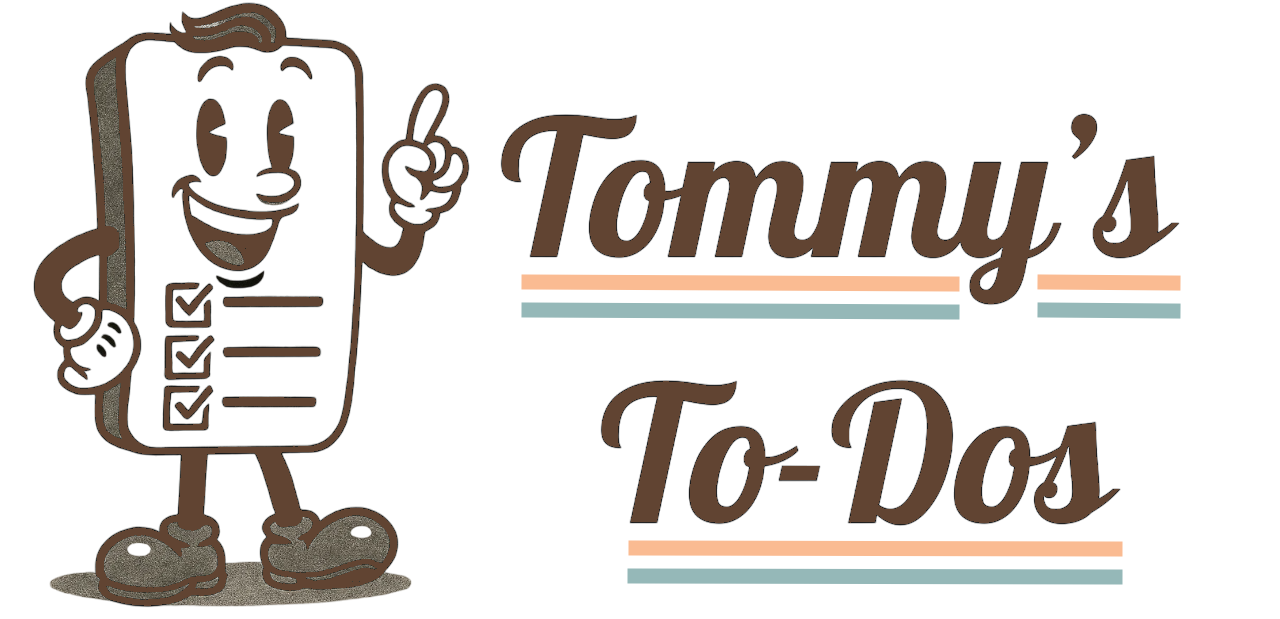
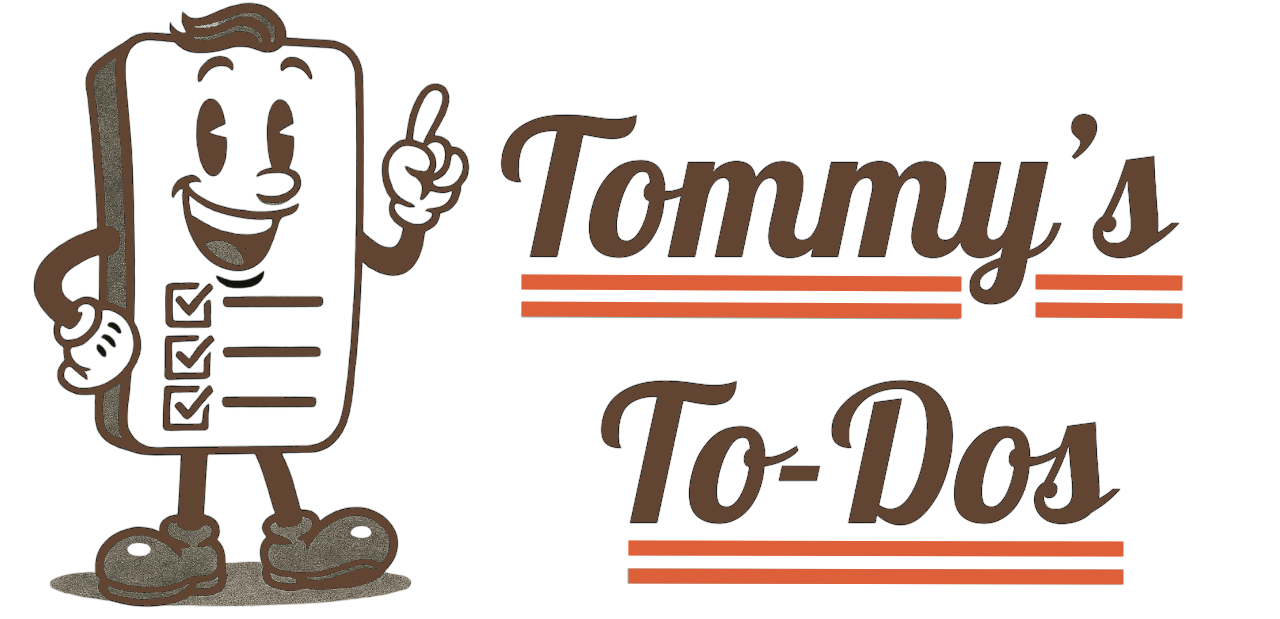
Added the functionality for search bar and also did some re-styling

Changed region(s): [[0.4688, 0.8595, 0.875, 0.9515], [0.4062, 0.4297, 0.75, 0.5218], [0.8125, 0.4297, 0.9375, 0.5218]]

diff --git a/src/routes/+page.svelte b/src/routes/+page.svelte
@@ -5,10 +5,12 @@
 	import type { PageProps } from './$types';
 	import { enhance } from '$app/forms';
 	let { data, form }: PageProps = $props();
+	let term: string = $state('');
 	let showModal = $state(false);
     let showcompleted = $state(false);
 	let showincomplete = $state(false);
 	const toggleModal = () => showModal = !showModal;
+
 	const toggleCompleted = () => {
 		showcompleted = !showcompleted;  
 		if (showcompleted) showincomplete = false; 
@@ -17,8 +19,16 @@
 		showincomplete = !showincomplete; 
 		if (showincomplete) showcompleted = false; 
 	};
-</script>
 
+
+	const filtered = $derived.by(() => {
+		let tasks = data.todos;
+		let filteredTasks = term.trim()
+			? tasks.filter(task => task.title.toLowerCase().includes(term.toLowerCase()))
+			: tasks
+		return filteredTasks;
+	})
+</script>
 
 <main>
 	<div class="bg"></div>
@@ -32,14 +42,22 @@
 			<form method="POST" action="?/delete" use:enhance>
 				<SidebarButton text="Clear All" />
 			</form>
+			<div>
+				<input
+					class="searchbar"
+					type="text"
+					name="searchterm"
+					placeholder="Search tasks..."
+					bind:value={term}
+				/>
+			</div>
 		</div>
 	</section>
 
 	<section class="content">
-        
 		<div class="card-grid-wrapper"> 
 			<!-- Populates the page with task elements and also will determin which cards are to be shown based on the state of filters -->
-			{#each data.todos as task}
+			{#each filtered as task}
 				{#if task._id && !showcompleted && !showincomplete}
 					<TaskCard taskTitle={task.title} taskDescription={task.description} taskCompleted={task.completed} taskID={task._id} />
 				{:else if task._id && showcompleted && task.completed == true}
@@ -48,10 +66,9 @@
 					<TaskCard taskTitle={task.title} taskDescription={task.description} taskCompleted={task.completed} taskID={task._id} />
 				{/if} 
 			{:else}
-				<p class="no-todos">No Todos Yet! <br /><br /> Add some tasks :)</p>
+				<p class="no-todos">No To-Dos Yet! <br /><br /> Add some tasks :)</p>
 			{/each}
 		</div>
-
 	</section>
 
 	{#if showModal}
@@ -244,5 +261,36 @@
 		display: flex;
 		flex-direction: column;
 	}
+	.searchbar {
+		font-family: '8bit';
+		background: var(--accent);
+		font-size: 1rem;
+		line-height: 1.5;
+		padding: 1rem;
+		border:none;
+		color: var(--cream);
+		width: 100%;
+		height:60%;
+		box-shadow: var(--foreground) 4px 4px;  
+		outline-color: var(--accent);
+		/* border: 2px solid var(--foreground); */
+	}
+
+	.searchbar:focus{
+		box-shadow: var(--foreground) 1px 1px;
+		transform: translate(3px, 3px);
+	}
+
+	input {
+		border: none;
+	}
+	input:focus {
+		outline: none;
+	}
+
+	input::placeholder {
+		color: var(--cream);
+	}
+
 
 </style>

diff --git a/src/routes/+layout.svelte b/src/routes/+layout.svelte
@@ -1,8 +1,9 @@
 <script lang="ts">
-	import "../app.css"
+	import "../app.css";
 	import logo from '$lib/assets/browntask.png';
 	let { children } = $props();
 </script>
+
 <head>
 	<title>Tommy's To-Dos</title>
 </head>
@@ -11,13 +12,13 @@
 	<div>
 		<img src={logo} class="logo" alt="to-do Logo" />
 	</div>
+
 	<h1 class="page-title">My Tasks</h1>
 </header>
 
 <main>
 	{@render children?.()}
 </main>
-
 
 
 <style>
@@ -45,6 +46,11 @@
 		align-items: stretch;
 	}
 
+	header div:nth-child(3) {
+		justify-content: center;
+		padding-right: 1rem;
+	}
+
 	.logo {
 		height: 10vh;
 		will-change: filter;
@@ -53,16 +59,14 @@
 
 	.page-title{
 		font-size: 4.5rem;
-		color: var(--foreground);
+		color: var(--accent);
 		font-family: 'title';
 		font-weight: bolder;
-		margin: 0;
 		text-align: center;
-		text-shadow: 3px 5px 0px var(--peach),
-                 7px 9px 0px #95b8b8;
+	    -webkit-text-stroke: 2px var(--foreground);
+		text-shadow: 5px 4px var(--foreground);
 		padding: 1rem;
-	}
-
+		}
 	
 </style>
 

diff --git a/src/lib/components/TaskCard.svelte b/src/lib/components/TaskCard.svelte
@@ -59,7 +59,7 @@
         grid-template-columns: 9fr 1fr;
         min-width: 25vw;
         min-height: 30vh;
-        box-shadow: 4px 4px var(--foreground);
+        box-shadow: 5px 5px var(--foreground);
     }
 
     .task-title {
@@ -131,6 +131,7 @@
 
     .checkbox-container input {
         position: absolute;
+        opacity: 0;
     }
 
     .checkmark {
@@ -145,6 +146,8 @@
 
     .checkbox-container input:checked ~ .checkmark {
         background-color: var(--accent);
+        box-shadow: 1px 1px var(--foreground);
+        transform: translate(2px, 2px);
     }
 
     .checkmark:after {

diff --git a/src/lib/server/store.ts b/src/lib/server/store.ts
@@ -1,0 +1,5 @@
+import { writable } from 'svelte/store';
+export const searchterm = writable('');
+
+// This store holds the current search term for filtering tasks.
+// It can be updated from any component that imports it.

diff --git a/src/app.css b/src/app.css
@@ -44,7 +44,7 @@
   --darkgrey: #4a4d4f;
   --peach: rgb(254, 185, 147);
   --cream: rgb(251, 238, 212);
-  --blue: rgb(105, 200, 194);
+  --blue:#95b8b8;
 }
 
 
